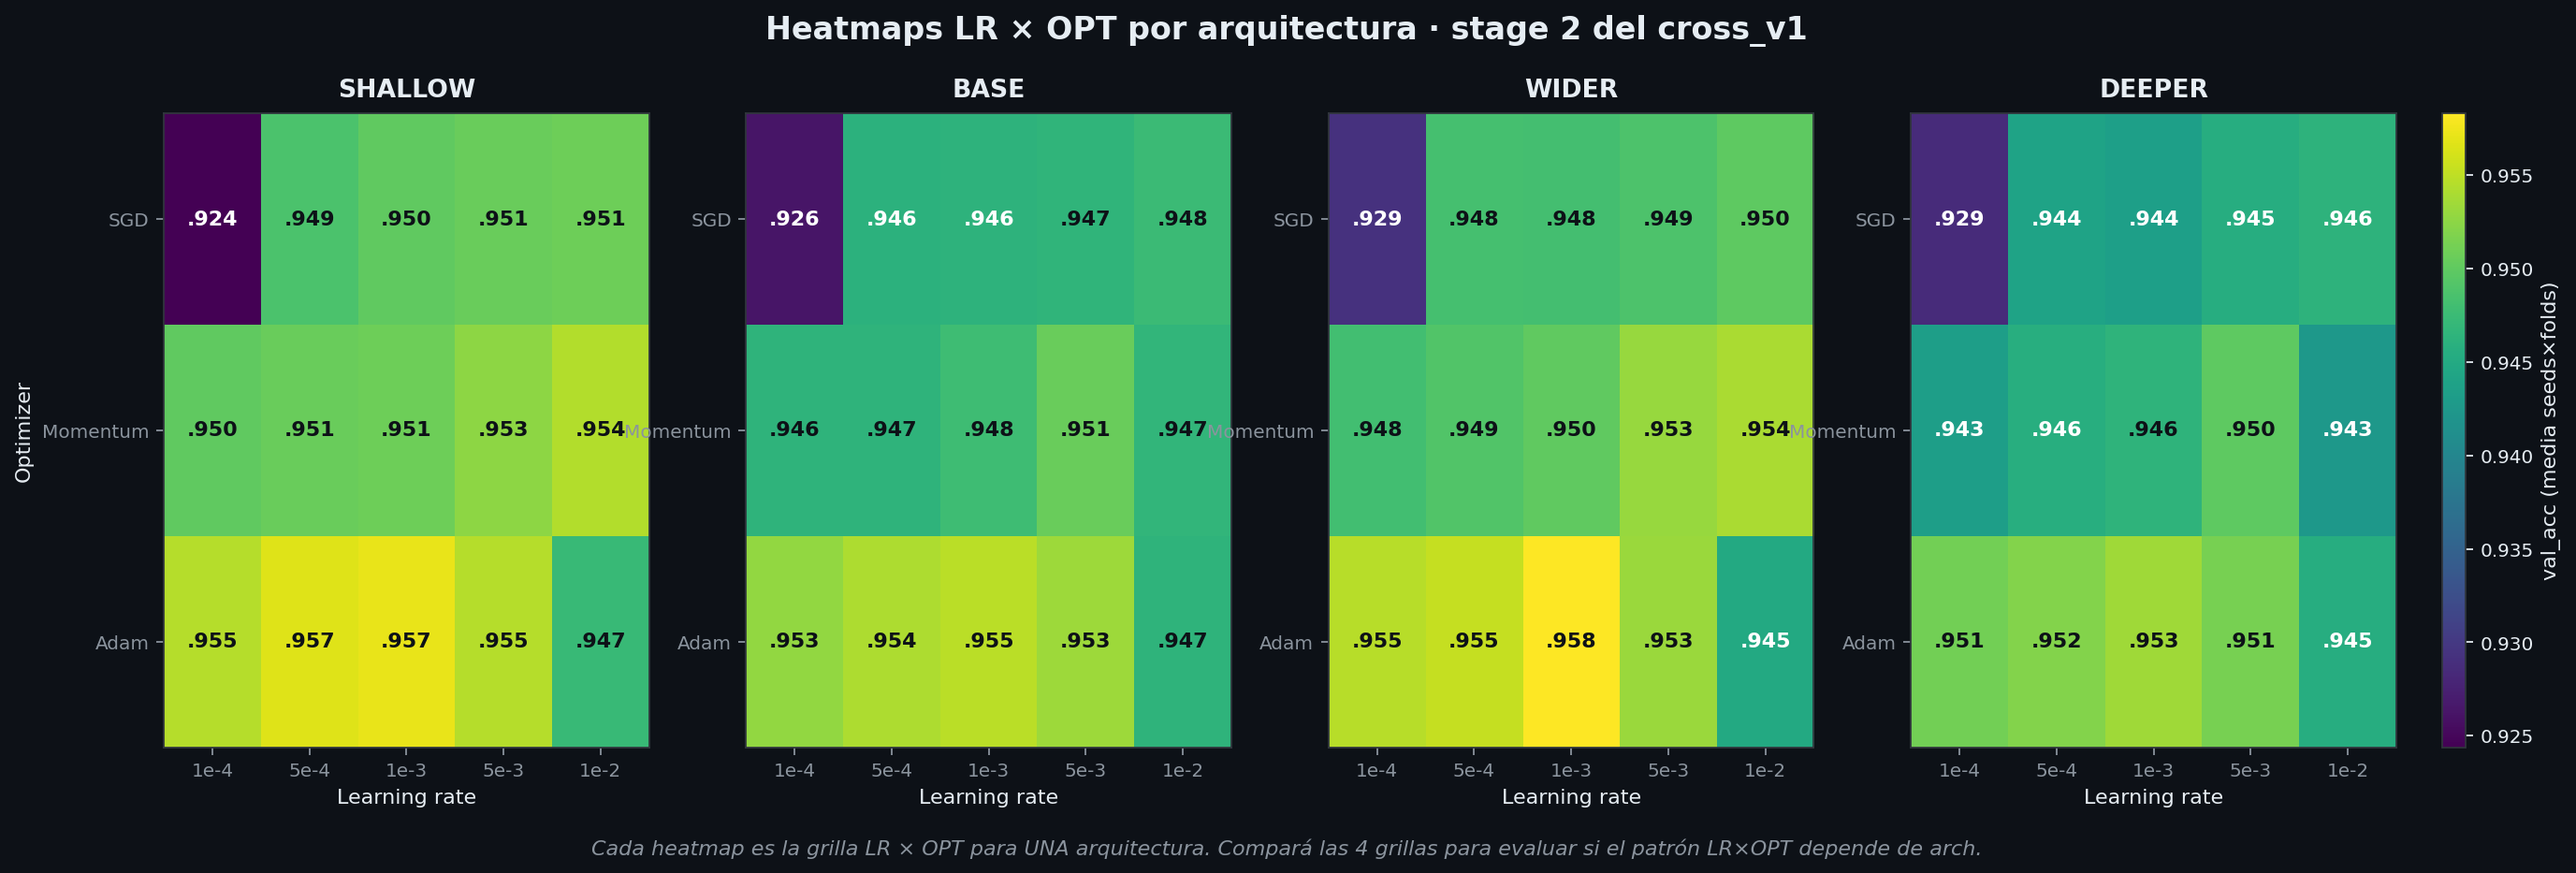
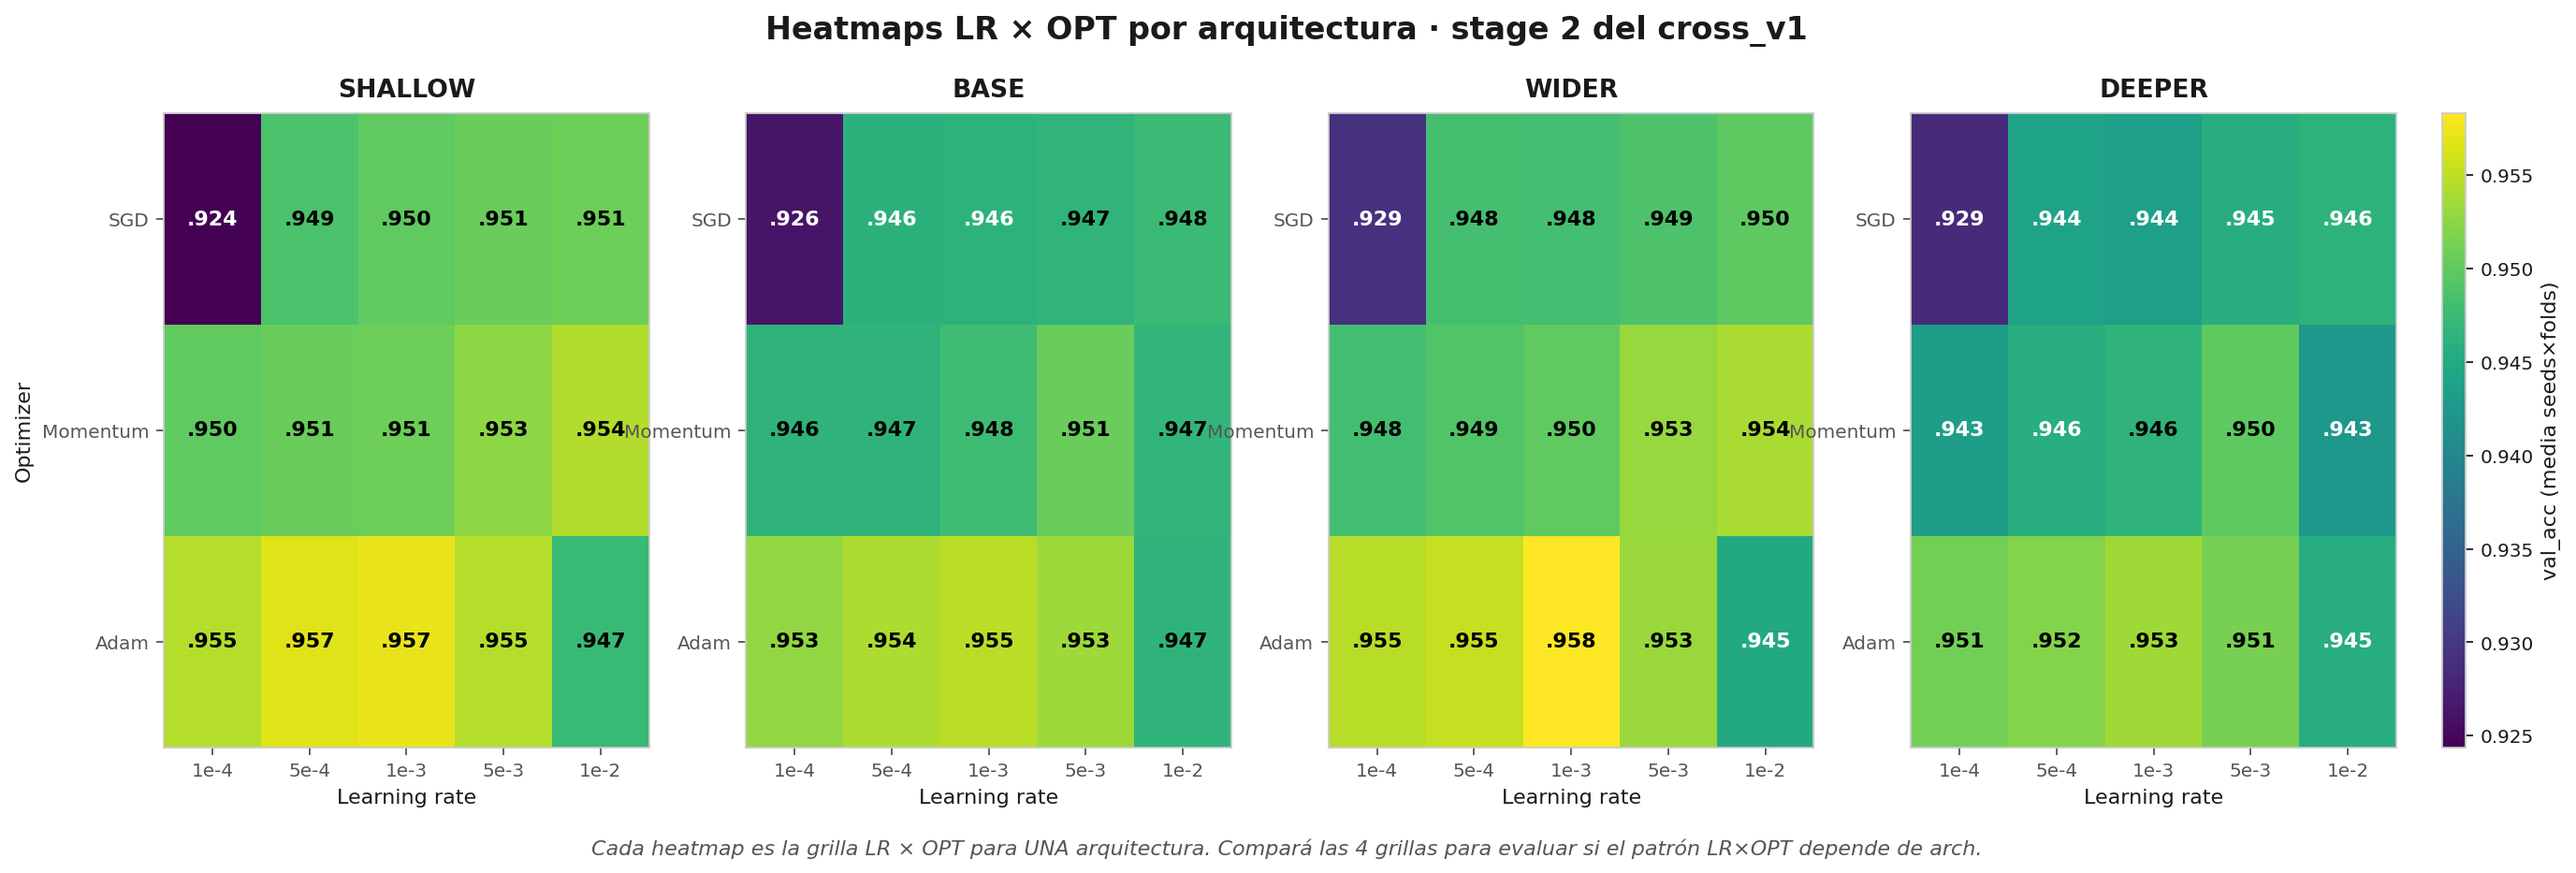
plots con fondo blanco: regenera lr_opt en light + agrega convención al CLAUDE.md
- plot_lr_opt.py: paleta light (BG blanco, texto negro, gris claro para grids).
  Regenera lr_opt_val_acc_4panels.png y lr_opt_heatmaps_4archs.png.
- CLAUDE.md: convención del repo — plots nuevos con fondo blanco por default.
  Los plots con tema dark existentes se mantienen donde están.

diff --git a/ejercicio2_experimentacion/scripts/cross_v1/plot_lr_opt.py b/ejercicio2_experimentacion/scripts/cross_v1/plot_lr_opt.py
@@ -25,11 +25,11 @@ NOTES = ROOT / "Notas" / "ejercicio 2" / "Segunda tanda de experimentos" / "Cros
 OUT.mkdir(parents=True, exist_ok=True)
 NOTES.mkdir(parents=True, exist_ok=True)
 
-# --- estilo (consistente con resto del proyecto) ---
-BG       = "#0d1117"
-TEXT     = "#e6edf3"
-LABEL    = "#8b949e"
-GRID     = "#30363d"
+# --- estilo light (fondo blanco) ---
+BG       = "#ffffff"
+TEXT     = "#1a1a1a"
+LABEL    = "#555555"
+GRID     = "#cccccc"
 
 ARCH_ORDER = ["arch_shallow", "arch_base", "arch_wider", "arch_deeper"]
 OPT_ORDER  = ["sgd", "momentum", "adam"]
@@ -52,7 +52,7 @@ def plot_4panels(df: pd.DataFrame) -> None:
                          marker=OPT_MARKERS[opt], color=OPT_COLORS[opt],
                          label=OPT_LABEL[opt], linewidth=2,
                          markersize=8, capsize=4, capthick=1.2,
-                         markeredgecolor="white", markeredgewidth=0.7)
+                         markeredgecolor="black", markeredgewidth=0.6)
         ax.set_xscale("log")
         ax.set_xticks(LR_ORDER); ax.set_xticklabels(LR_LABEL,
                                                        color=TEXT, fontsize=9)
@@ -108,7 +108,7 @@ def plot_4heatmaps(df: pd.DataFrame) -> None:
             for j in range(len(LR_ORDER)):
                 v = mat[i, j]
                 if not np.isnan(v):
-                    txt_color = "white" if v < (vmin + vmax)/2 + 0.005 else "#0d1117"
+                    txt_color = "white" if v < (vmin + vmax)/2 + 0.005 else "black"
                     ax.text(j, i, f"{v:.3f}"[1:], ha="center", va="center",
                             color=txt_color, fontsize=10, fontweight="bold")
         ax.set_xticks(range(len(LR_ORDER)))

diff --git a/CLAUDE.md b/CLAUDE.md
@@ -112,3 +112,4 @@ Cuando se proponga un experimento nuevo del Ej2, seguir este flujo: config → s
 - Commits directos a `main` (no feature branches salvo pedido explícito).
 - Nunca incluir co-author de Claude/AI en commits ni archivos.
 - `digits.csv` / `digits_test.csv` / `more_digits.csv`: columna `image` es string `"[0.1, 0.2, ...]"` parseado por `mlp/data.py:parse_features`.
+- **Plots con fondo blanco por default.** Todo plot que se genere para análisis o presentación debe usar `facecolor="white"` (o equivalente) y texto/ejes oscuros. Los plots con tema dark del proyecto (`#0d1117`) se mantienen sólo en archivos puntuales ya commiteados; cualquier plot nuevo es light.
